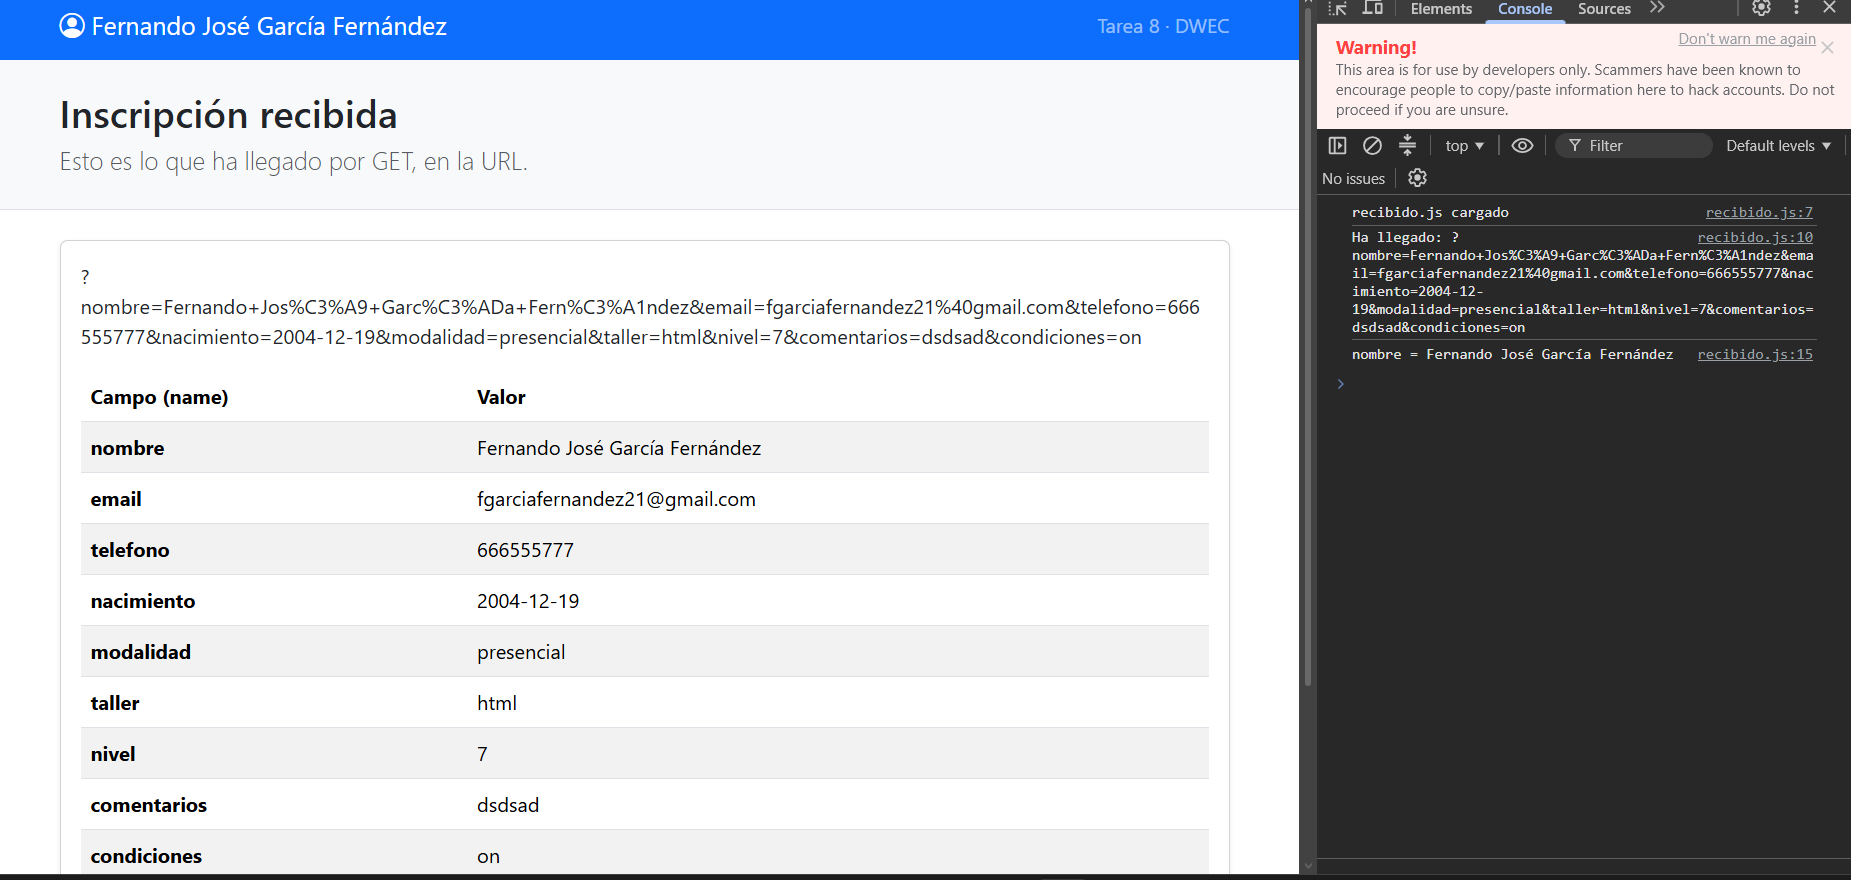
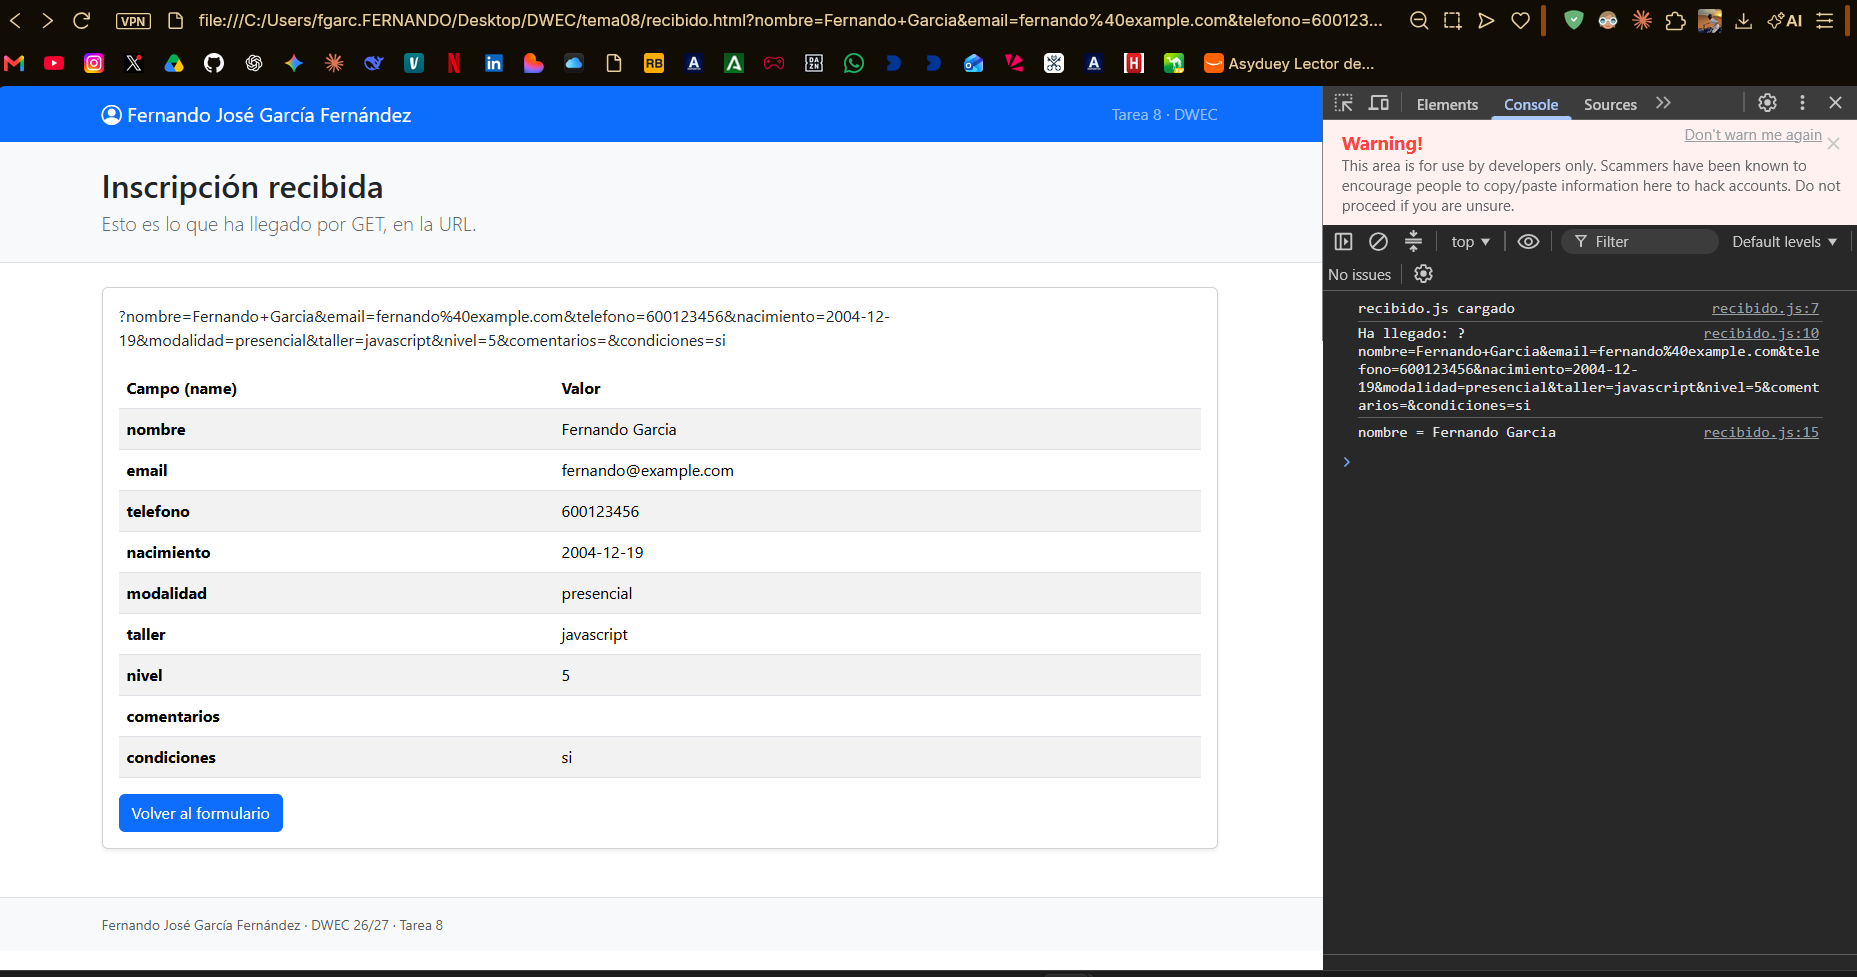
capturas y readme completado

diff --git a/tema08/README.md b/tema08/README.md
@@ -28,13 +28,13 @@ En la URL se ven los nombres y valores de los campos enviados por GET, y la pág
 
 ![Los errores debajo de cada campo](capturas/d-ej4-errores.png)
 
-La captura muestra errores distintos: un campo obligatorio vacío, un correo con formato incorrecto y dos correos que no coinciden. Los mensajes salen de las propiedades de validación del campo o del mensaje personalizado que se define con `setCustomValidity()`.
+La captura muestra varios errores: el nombre es demasiado corto, el correo no tiene formato válido, los dos correos no coinciden, el teléfono no tiene nueve cifras y hay campos obligatorios vacíos. Los mensajes salen de las propiedades de validación del campo o del mensaje personalizado que se define con `setCustomValidity()`.
 
 ### e) Ejercicios 5 y 6: eventos y resumen
 
 <img src="capturas/e-ej5-ej6.png" alt="El contador, el nivel, los correos que no coinciden y el resumen" width="600">
 
-La captura debe mostrar el contador (por ejemplo, «37 de 200»), el nivel, el aviso de correos distintos y el resumen generado con `FormData`. Sustituiré la imagen por una captura actualizada antes de entregar.
+En la captura se ve el contador de comentarios, el nivel 7, el aviso de que los correos no coinciden y el resumen generado con `FormData`.
 
 ## Reflexión
 
